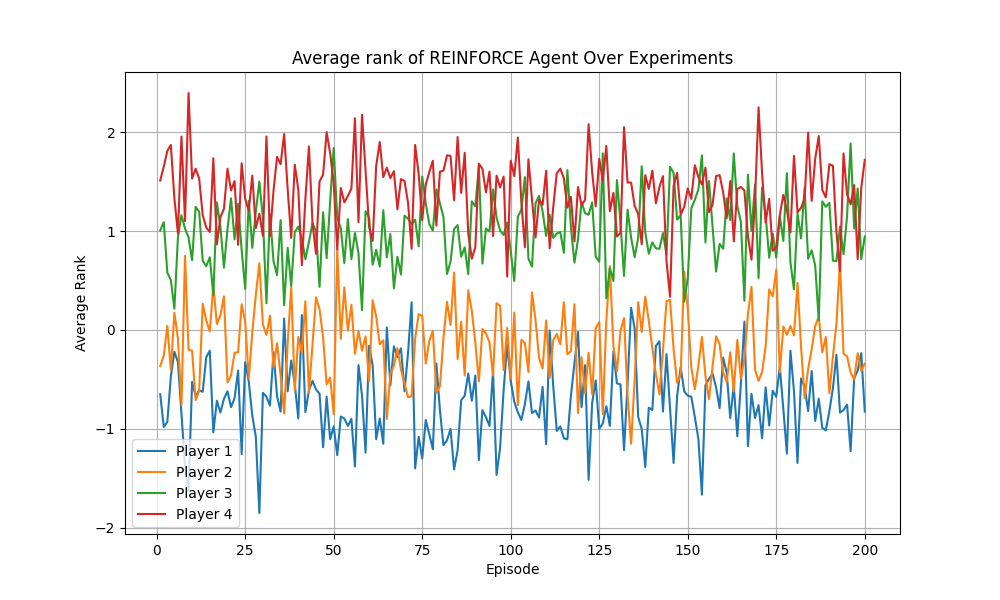
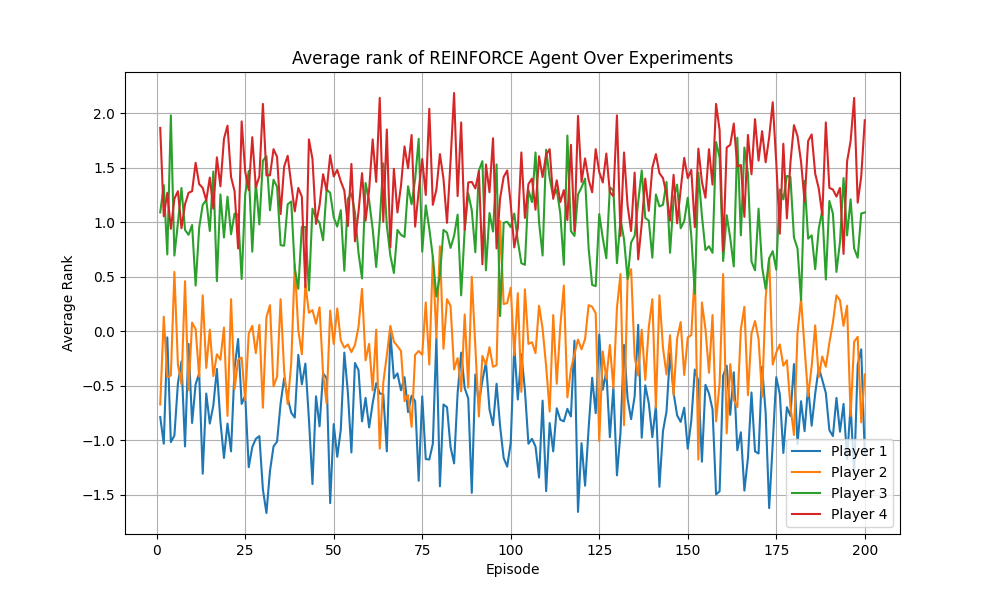
エージェントの引数指定を追加しました。

diff --git a/main.py b/main.py
@@ -1,11 +1,20 @@
 # main.py
 
-# モジュールのインポート
-from config import config                  # ハイパーパラメータの読み込み
-from agent.reinforce_agent import REINFORCEAgent       # エージェントのインポートはここを変更
-from environment.hagetaka_env import HagetakaEnv  # カスタム環境のインポート
-from train.training_loop_v2 import train_agent  # トレーニングループのインポート
+# ハイパーパラメータの読み込み
+from config import config   
 
+# エージェントのインポート
+from agent.reinforce_agent import REINFORCEAgent      
+from agent.dqn_agent import DQNAgent
+
+# カスタム環境のインポート
+from environment.hagetaka_env import HagetakaEnv  
+
+# トレーニングループのインポート
+from train.training_loop_v2 import train_agent  
+
+# モジュールのインポート
+import argparse
 import os
 import time
 
@@ -14,13 +23,51 @@ import time
 os.makedirs("saved_models", exist_ok=True)
 os.makedirs("logs", exist_ok=True)
 
+def get_agent(agent_type):
+    """エージェントを選択して初期化する"""
+    if agent_type == "REINFORCE":
+        return REINFORCEAgent(
+            state_size=config['agent']['state_size'], 
+            action_size=config['agent']['action_size'], 
+            learning_rate=config['agent']['learning_rate']
+        ), "reinforce_agent_model.pth"
+    elif agent_type == "DQN":
+        return DQNAgent(
+            state_size=config['agent']['state_size'], 
+            action_size=config['agent']['action_size'], 
+            learning_rate=config['agent']['learning_rate'], 
+            gamma=config['agent']['gamma'], 
+            epsilon=config['agent']['epsilon'], 
+            epsilon_decay=config['agent']['epsilon_decay'], 
+            epsilon_min=config['agent']['epsilon_min'], 
+            memory_size=config['agent']['memory_size'], 
+            batch_size=config['agent']['batch_size']
+        ), "dqn_agent_model.pth"
+    else:
+        raise ValueError(f"Unsupported agent type: {agent_type}")
+    
+
 def main():
+    # コマンドライン引数の処理
+    parser = argparse.ArgumentParser(description="Train a selected agent in the Hagetaka environment.")
+    parser.add_argument(
+        '--agent',
+        type=str,
+        required=True,
+        choices=["REINFORCE", "DQN"],
+        help="Choose the agent to train: REINFORCE or DQN."
+    )
+    args = parser.parse_args()
+    agent_type = args.agent
+    
     # 環境とエージェントの初期化
     environment = HagetakaEnv()
     
-    #エージェント名を変更する
-    agent = REINFORCEAgent(config['agent']['state_size'], config['agent']['action_size'], config['agent']['learning_rate'])
+    #エージェント名を指定する
+    agent, model_filename = get_agent(agent_type)
+    model_path = os.path.join("saved_models", model_filename)
     
+    """
     model_path = "saved_models/reinforce_agent_model.pth" # エージェントごとの学習状況を保存するパス
     try:
         agent.load(model_path)
@@ -28,7 +75,15 @@ def main():
     except FileNotFoundError:
         print(f"No model found at {model_path}. Please train the model first.")
         return
+    """
 
+    # モデルのロード
+    try:
+        agent.load(model_path)
+        print(f"Loaded model from {model_path}")
+    except FileNotFoundError:
+        print(f"No model found at {model_path}. Starting fresh training.")
+    
     start_time = time.time()
     
     # トレーニング開始
@@ -41,8 +96,8 @@ def main():
     print(f"Execution time: {execution_time} seconds")
     
     # 学習済みモデルの保存
-    agent.save("saved_models/reinforce_agent_model.pth") # エージェントごとに学習状況を保存
-    print("Training complete. Model saved.")
+    agent.save(model_path) # エージェントごとに学習状況を保存
+    print("Training complete. Model saved to {model_path}")
 
 if __name__ == "__main__":
     main()

diff --git a/.ipynb_checkpoints/main-checkpoint.py b/.ipynb_checkpoints/main-checkpoint.py
@@ -1,11 +1,20 @@
 # main.py
 
-# モジュールのインポート
-from config import config                  # ハイパーパラメータの読み込み
-from agent.reinforce_agent import REINFORCEAgent       # DQNエージェントのインポート（例）
-from environment.hagetaka_env import HagetakaEnv  # カスタム環境のインポート
-from train.training_loop_v2 import train_agent  # トレーニングループのインポート
+# ハイパーパラメータの読み込み
+from config import config   
 
+# エージェントのインポート
+from agent.reinforce_agent import REINFORCEAgent      
+from agent.dqn_agent import DQNAgent
+
+# カスタム環境のインポート
+from environment.hagetaka_env import HagetakaEnv  
+
+# トレーニングループのインポート
+from train.training_loop_v2 import train_agent  
+
+# モジュールのインポート
+import argparse
 import os
 import time
 
@@ -14,13 +23,51 @@ import time
 os.makedirs("saved_models", exist_ok=True)
 os.makedirs("logs", exist_ok=True)
 
+def get_agent(agent_type):
+    """エージェントを選択して初期化する"""
+    if agent_type == "REINFORCE":
+        return REINFORCEAgent(
+            state_size=config['agent']['state_size'], 
+            action_size=config['agent']['action_size'], 
+            learning_rate=config['agent']['learning_rate']
+        ), "reinforce_agent_model.pth"
+    elif agent_type == "DQN":
+        return DQNAgent(
+            state_size=config['agent']['state_size'], 
+            action_size=config['agent']['action_size'], 
+            learning_rate=config['agent']['learning_rate'], 
+            gamma=config['agent']['gamma'], 
+            epsilon=config['agent']['epsilon'], 
+            epsilon_decay=config['agent']['epsilon_decay'], 
+            epsilon_min=config['agent']['epsilon_min'], 
+            memory_size=config['agent']['memory_size'], 
+            batch_size=config['agent']['batch_size']
+        ), "dqn_agent_model.pth"
+    else:
+        raise ValueError(f"Unsupported agent type: {agent_type}")
+    
+
 def main():
+    # コマンドライン引数の処理
+    parser = argparse.ArgumentParser(description="Train a selected agent in the Hagetaka environment.")
+    parser.add_argument(
+        '--agent',
+        type=str,
+        required=True,
+        choices=["REINFORCE", "DQN"],
+        help="Choose the agent to train: REINFORCE or DQN."
+    )
+    args = parser.parse_args()
+    agent_type = args.agent
+    
     # 環境とエージェントの初期化
     environment = HagetakaEnv()
     
-    #エージェント名を変更する
-    agent = REINFORCEAgent(config['agent']['state_size'], config['agent']['action_size'], config['agent']['learning_rate'])
+    #エージェント名を指定する
+    agent, model_filename = get_agent(agent_type)
+    model_path = os.path.join("saved_models", model_filename)
     
+    """
     model_path = "saved_models/reinforce_agent_model.pth" # エージェントごとの学習状況を保存するパス
     try:
         agent.load(model_path)
@@ -28,7 +75,15 @@ def main():
     except FileNotFoundError:
         print(f"No model found at {model_path}. Please train the model first.")
         return
+    """
 
+    # モデルのロード
+    try:
+        agent.load(model_path)
+        print(f"Loaded model from {model_path}")
+    except FileNotFoundError:
+        print(f"No model found at {model_path}. Starting fresh training.")
+    
     start_time = time.time()
     
     # トレーニング開始
@@ -41,8 +96,8 @@ def main():
     print(f"Execution time: {execution_time} seconds")
     
     # 学習済みモデルの保存
-    agent.save("saved_models/reinforce_agent_model.pth") # エージェントごとに学習状況を保存
-    print("Training complete. Model saved.")
+    agent.save(model_path) # エージェントごとに学習状況を保存
+    print("Training complete. Model saved to {model_path}.")
 
 if __name__ == "__main__":
     main()
